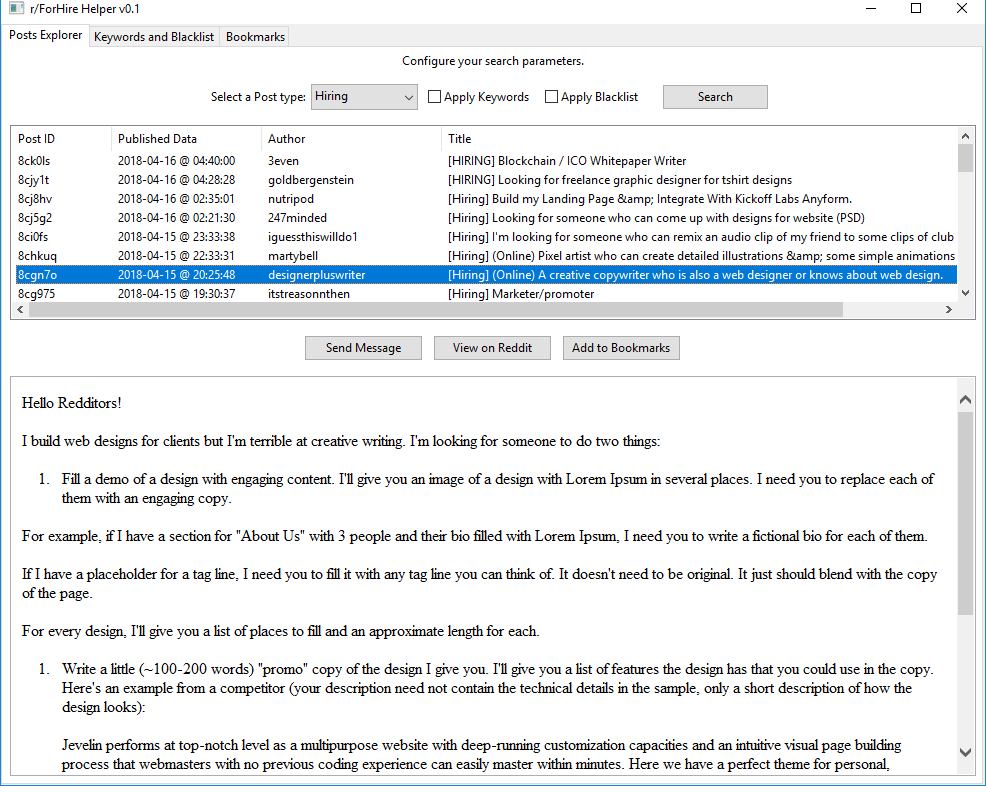
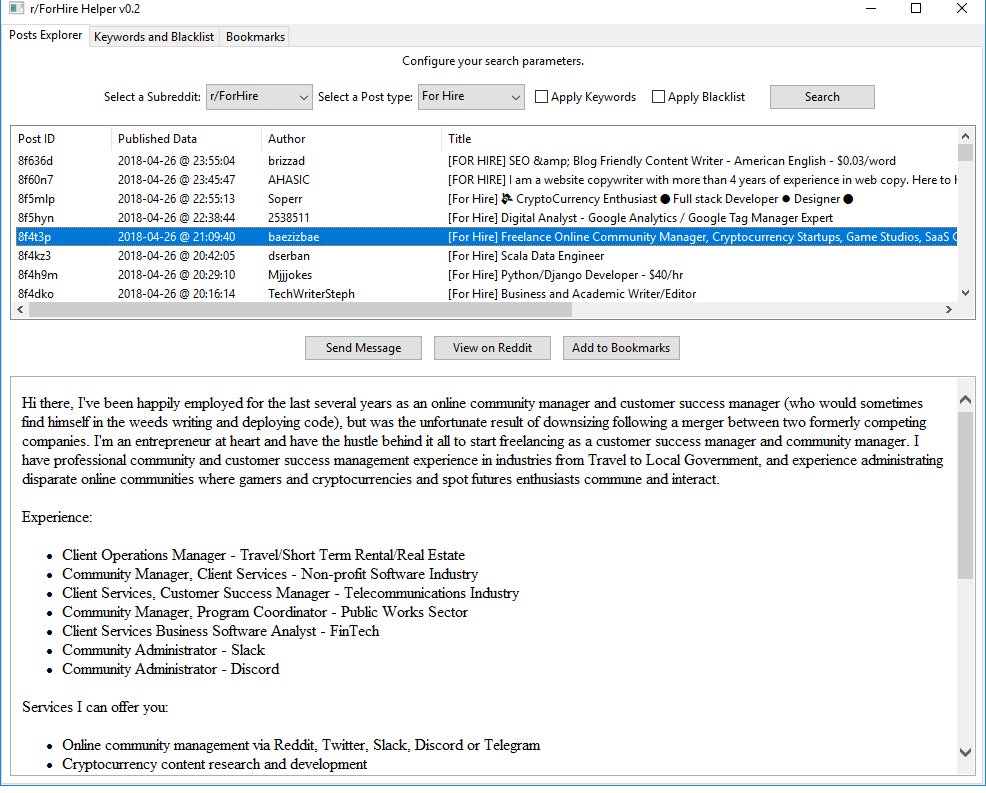
Bug fixes and more subreddits support.

diff --git a/forhire/views/tab1.py b/forhire/views/tab1.py
@@ -17,6 +17,7 @@ from wx.adv import NotificationMessage
 
 import main
 from libs import sql_helpers
+from libs.sibreddits import SUBREDDITS_LIST
 
 
 class Tab1(wx.Panel):
@@ -26,7 +27,7 @@ class Tab1(wx.Panel):
 
         self.selected_post = ""
         self.posts_list = list()
-        self.keywords = list()
+        self.m_keywords = list()
         self.blacklist = list()
 
         self.main_sizer = wx.BoxSizer(wx.VERTICAL)
@@ -44,17 +45,25 @@ class Tab1(wx.Panel):
         self.top_sizer_flags = wx.SizerFlags(
             1).Center().Expand().Border(wx.ALL, 5)
 
+        self.subreddit_label = wx.StaticText(self, label="Select a Subreddit:")
+        self.top_sizer.Add(self.subreddit_label, wx.SizerFlags().Centre())
+
+        self.subreddit_type = wx.ComboBox(
+            self, style=wx.CB_READONLY, choices=[item["name"] for item in SUBREDDITS_LIST])
+        self.Bind(wx.EVT_COMBOBOX, self.select_subreddit, self.subreddit_type)
+        self.top_sizer.Add(self.subreddit_type, self.top_sizer_flags)
+
         self.post_type_label = wx.StaticText(self, label="Select a Post type:")
         self.top_sizer.Add(self.post_type_label, wx.SizerFlags().Centre())
 
-        self.post_type = wx.ComboBox(
-            self, style=wx.CB_READONLY, value="Hiring", choices=["Hiring", "For Hire"])
+        self.post_type = wx.ComboBox(self, style=wx.CB_READONLY)
         self.Bind(wx.EVT_COMBOBOX, self.filter_results, self.post_type)
         self.top_sizer.Add(self.post_type, self.top_sizer_flags)
 
-        self.keywords_checkbox = wx.CheckBox(self, label="Apply Keywords")
-        self.Bind(wx.EVT_CHECKBOX, self.filter_results, self.keywords_checkbox)
-        self.top_sizer.Add(self.keywords_checkbox, self.top_sizer_flags)
+        self.m_keywords_checkbox = wx.CheckBox(self, label="Apply Keywords")
+        self.Bind(wx.EVT_CHECKBOX, self.filter_results,
+                  self.m_keywords_checkbox)
+        self.top_sizer.Add(self.m_keywords_checkbox, self.top_sizer_flags)
 
         self.blacklist_checkbox = wx.CheckBox(
             self, label="Apply Blacklist")
@@ -100,15 +109,31 @@ class Tab1(wx.Panel):
         self.SetSizer(self.main_sizer)
         self.Bind(wx.EVT_SHOW, self.show_handler)
 
+        # We initialize the tab with the first subreeddit.
+        self.subreddit_type.SetValue(SUBREDDITS_LIST[0]["name"])
+        self.select_subreddit(None)
+
     def show_handler(self, event):
         """Called when the Panel is being shown."""
 
         if event.IsShown():
-            self.keywords = [item[0].lower() for item in sql_helpers.load_words(
+            self.m_keywords = [item[0].lower() for item in sql_helpers.load_words(
                 main.sql_conn, "keywords")]
 
             self.blacklist = [item[0].lower() for item in sql_helpers.load_words(
                 main.sql_conn, "blacklist")]
+
+    def select_subreddit(self, event):
+        """Populates the post type ComboBox with the data from the selected subreddit."""
+
+        for subreddit in SUBREDDITS_LIST:
+            if subreddit["name"] == self.subreddit_type.Value:
+                rules = subreddit["rules"]
+                break
+
+        self.post_type.Clear()
+        self.post_type.AppendItems(rules)
+        self.post_type.SetValue(rules[0])
 
     def do_search(self, event):
         """Starts the search."""
@@ -140,19 +165,22 @@ class Tab1(wx.Panel):
                 if self.quick_filter(self.blacklist, item):
                     temp_posts.remove(item)
 
-        if self.keywords_checkbox.IsChecked():
+        if self.m_keywords_checkbox.IsChecked():
             for item in temp_posts:
-                if self.quick_filter(self.keywords, item):
+                if self.quick_filter(self.m_keywords, item):
                     filtered_posts.append(item)
 
-        if len(filtered_posts) == 0:
-            for item in temp_posts:
-                if self.post_type.GetValue().lower() in item["title"].lower():
+        if len(filtered_posts) == 0 and self.m_keywords_checkbox.IsChecked():
+            # No results, we do nothing.
+            pass
+        elif len(filtered_posts) >= 1:
+            for item in filtered_posts:
+                if self.post_type.GetValue().lower() in item["flair"].lower():
                     self.posts_table.Append(
                         [item["post_id"], item["pub_date"], item["author"], item["title"]])
         else:
-            for item in filtered_posts:
-                if self.post_type.GetValue().lower() in item["title"].lower():
+            for item in temp_posts:
+                if self.post_type.GetValue().lower() in item["flair"].lower():
                     self.posts_table.Append(
                         [item["post_id"], item["pub_date"], item["author"], item["title"]])
 
@@ -173,13 +201,19 @@ class Tab1(wx.Panel):
         this cnn be changed in the target default value, the max is 1000.
         """
 
-        headers = {"User-Agent": "r/ForHire Helper v0.1"}
+        for subreddit in SUBREDDITS_LIST:
+            if subreddit["name"] == self.subreddit_type.Value:
+                selected_subreddit = subreddit["id"]
+                break
+
+        headers = {"User-Agent": "r/ForHire Helper v0.2"}
 
         if after == "":
-            url = "https://www.reddit.com/r/forhire/new/.json?limit=100"
+            url = "https://www.reddit.com/r/{}/new/.json?limit=100".format(
+                selected_subreddit)
         else:
-            url = "https://www.reddit.com/r/forhire/new/.json?limit=100&after={}".format(
-                after)
+            url = "https://www.reddit.com/r/{}/new/.json?limit=100&after={}".format(
+                selected_subreddit, after)
 
         with requests.get(url, headers=headers) as response:
 
@@ -187,12 +221,29 @@ class Tab1(wx.Panel):
                 counter += 100
 
                 for submission in response.json()["data"]["children"]:
+
+                    # Very rarely a post has no text.
+                    # We set it to an empty string instead of a null value.
+                    if submission["data"]["selftext_html"] is None:
+                        submission_text = ""
+                    else:
+                        submission_text = submission["data"]["selftext_html"]
+
+                    # We detect if a post has not been flaired.
+                    # If not, we fallback to using its title.
+                    if submission["data"]["link_flair_text"] is None:
+                        flair = submission["data"]["title"]
+                    else:
+                        flair = submission["data"]["link_flair_text"]
+
                     post_dict = {
                         "post_id": submission["data"]["id"],
+                        "flair": flair,
+                        "subreddit": submission["data"]["subreddit"].lower(),
                         "author": submission["data"]["author"],
                         "title": submission["data"]["title"],
                         "link": submission["data"]["url"],
-                        "text": submission["data"]["selftext_html"],
+                        "text": submission_text,
 
                         "pub_date": datetime.fromtimestamp(
                             submission["data"]["created"]).strftime("%Y-%m-%d @ %H:%M:%S")}

diff --git a/forhire/views/tab3.py b/forhire/views/tab3.py
@@ -16,6 +16,7 @@ from wx.adv import NotificationMessage
 
 import main
 from libs import sql_helpers
+from libs.sibreddits import SUBREDDITS_LIST
 
 
 class Tab3(wx.Panel):
@@ -43,11 +44,18 @@ class Tab3(wx.Panel):
         self.top_sizer_flags = wx.SizerFlags(
             1).Center().Expand().Border(wx.ALL, 5)
 
+        self.subreddit_label = wx.StaticText(self, label="Select a Subreddit:")
+        self.top_sizer.Add(self.subreddit_label, wx.SizerFlags().Centre())
+
+        self.subreddit_type = wx.ComboBox(
+            self, style=wx.CB_READONLY, choices=[item["name"] for item in SUBREDDITS_LIST])
+        self.Bind(wx.EVT_COMBOBOX, self.select_subreddit, self.subreddit_type)
+        self.top_sizer.Add(self.subreddit_type, self.top_sizer_flags)
+
         self.post_type_label = wx.StaticText(self, label="Select a Post type:")
         self.top_sizer.Add(self.post_type_label, wx.SizerFlags().Centre())
 
-        self.post_type = wx.ComboBox(
-            self, style=wx.CB_READONLY, value="Hiring", choices=["Hiring", "For Hire"])
+        self.post_type = wx.ComboBox(self, style=wx.CB_READONLY)
         self.Bind(wx.EVT_COMBOBOX, self.filter_results, self.post_type)
         self.top_sizer.Add(self.post_type, self.top_sizer_flags)
 
@@ -95,6 +103,10 @@ class Tab3(wx.Panel):
         self.SetSizer(self.main_sizer)
         self.Bind(wx.EVT_SHOW, self.show_handler)
 
+        # We initialize the tab with the first subreeddit.
+        self.subreddit_type.SetValue(SUBREDDITS_LIST[0]["name"])
+        self.select_subreddit(None)
+
     def show_handler(self, event):
         """Called when the Panel is being shown."""
 
@@ -106,6 +118,19 @@ class Tab3(wx.Panel):
                 main.sql_conn, "blacklist")]
 
             self.load_posts()
+
+    def select_subreddit(self, event):
+        """Populates the post type ComboBox with the data from the selected subreddit."""
+
+        for subreddit in SUBREDDITS_LIST:
+            if subreddit["name"] == self.subreddit_type.Value:
+                rules = subreddit["rules"]
+                break
+
+        self.post_type.Clear()
+        self.post_type.AppendItems(rules)
+        self.post_type.SetValue(rules[0])
+        self.load_posts()
 
     def filter_results(self, event):
         """
@@ -135,14 +160,17 @@ class Tab3(wx.Panel):
                 if self.quick_filter(self.keywords, item):
                     filtered_posts.append(item)
 
-        if len(filtered_posts) == 0:
-            for item in temp_posts:
-                if self.post_type.GetValue().lower() in item["title"].lower():
+        if len(filtered_posts) == 0 and self.keywords_checkbox.IsChecked():
+            # No results, we do nothing.
+            pass
+        elif len(filtered_posts) >= 1:
+            for item in filtered_posts:
+                if self.post_type.GetValue().lower() in item["flair"].lower():
                     self.posts_table.Append(
                         [item["post_id"], item["pub_date"], item["author"], item["title"]])
         else:
-            for item in filtered_posts:
-                if self.post_type.GetValue().lower() in item["title"].lower():
+            for item in temp_posts:
+                if self.post_type.GetValue().lower() in item["flair"].lower():
                     self.posts_table.Append(
                         [item["post_id"], item["pub_date"], item["author"], item["title"]])
 
@@ -159,12 +187,17 @@ class Tab3(wx.Panel):
     def load_posts(self):
         """Loads posts from the posts table."""
 
+        for subreddit in SUBREDDITS_LIST:
+            if subreddit["name"] == self.subreddit_type.Value:
+                selected_subreddit = subreddit["id"]
+                break
+
         self.posts_list = list()
 
-        for item in sql_helpers.load_posts(main.sql_conn):
+        for item in sql_helpers.load_posts(main.sql_conn, selected_subreddit):
             self.posts_list.append(
-                {"post_id": item[0], "author": item[1], "title": item[2],
-                 "link": item[3], "text": item[4], "pub_date": item[5]})
+                {"post_id": item[0], "subreddit": item[1], "flair": item[2], "author": item[3], "title": item[4],
+                 "link": item[5], "text": item[6], "pub_date": item[7]})
 
         self.filter_results(None)
 

diff --git a/forhire/libs/sql_helpers.py b/forhire/libs/sql_helpers.py
@@ -17,8 +17,8 @@ def create_tables(cursor):
 
     keywords_query = """CREATE TABLE IF NOT EXISTS keywords (word TEXT UNIQUE)"""
     blacklist_query = """CREATE TABLE IF NOT EXISTS blacklist (word TEXT UNIQUE)"""
-    posts_query = """CREATE TABLE IF NOT EXISTS posts (post_id TEXT UNIQUE,
-        author TEXT, title TEXT, link TEXT, selftext TEXT, pub_date TEXT) """
+    posts_query = """CREATE TABLE IF NOT EXISTS posts (post_id TEXT UNIQUE, subreddit TEXT,
+    flair TEXT, author TEXT, title TEXT, link TEXT, selftext TEXT, pub_date TEXT) """
 
     cursor.execute(keywords_query)
     cursor.execute(blacklist_query)
@@ -53,9 +53,10 @@ def insert_post_to_table(conn, data_dict):
     """Inserts a post to the posts table."""
 
     with conn:
-        query = "INSERT INTO posts VALUES (?, ?, ?, ?, ?, ?)"
-        conn.execute(query, (data_dict["post_id"], data_dict["author"], data_dict["title"],
-                             data_dict["link"], data_dict["text"], data_dict["pub_date"]))
+        query = "INSERT INTO posts VALUES (?, ?, ?, ?, ?, ?, ?, ?)"
+        conn.execute(query, (data_dict["post_id"], data_dict["subreddit"], data_dict["flair"],
+                             data_dict["author"], data_dict["title"], data_dict["link"],
+                             data_dict["text"], data_dict["pub_date"]))
 
 
 def delete_post_from_table(conn, value):
@@ -66,9 +67,9 @@ def delete_post_from_table(conn, value):
         conn.execute(query, (value,))
 
 
-def load_posts(conn):
+def load_posts(conn, value):
     """Returns all the posts from the posts table."""
 
     with conn:
-        query = "SELECT * FROM posts"
+        query = "SELECT * FROM posts WHERE subreddit='{}'".format(value)
         return conn.execute(query)

diff --git a/forhire/libs/sibreddits.py b/forhire/libs/sibreddits.py
@@ -1,0 +1,12 @@
+"""
+This list contains the subreddits used in this program.
+The rules key is used to filter the posts between those who seek jobs and those who offer them.
+"""
+
+SUBREDDITS_LIST = [
+    {"id": "forhire", "name": "r/ForHire", "rules": ["For Hire", "Hiring"]},
+    {"id": "designjobs", "name": "r/DesignJobs", "rules": ["For Hire", "Hiring"]},
+    {"id": "hireawriter", "name": "r/HireaWriter", "rules": ["Hire Me", "Hiring"]},
+    {"id": "jobbit", "name": "r/jobbit", "rules": ["For Hire", "Hiring"]},
+    {"id": "slavelabour", "name": "r/SlaveLabour", "rules": ["Task", "Offer"]}
+]

diff --git a/forhire/main.py b/forhire/main.py
@@ -11,7 +11,7 @@ class Root(wx.Frame):
     def __init__(self, parent):
 
         wx.Frame.__init__(
-            self, parent, title="r/ForHire Helper v0.1", size=(1000, 800))
+            self, parent, title="r/ForHire Helper v0.2", size=(1000, 800))
 
         self.notebook = wx.Notebook(self)
 

diff --git a/forhire/views/tab2.py b/forhire/views/tab2.py
@@ -1,7 +1,7 @@
 """
 In this tab you can manage your keywords and blacklist items.
 
-The code in this tab is highly resusable since both keywords and blacklists are
+The code in this tab is highly reusable since both keywords and blacklists are
 based on the same principle.
 """
 

diff --git a/README.md b/README.md
@@ -1,10 +1,11 @@
 # r/ForHire Helper
 
-r/ForHire Helper is a free and opensource Python desktop application that helps freelancers and employers find the best candidates faster and easier.
+r/ForHire Helper is a free and open source Python desktop application that helps freelancers and employers find the best candidates faster and easier.
 
-This application uses the following APis and libraries:
 
-* wxPython 4 for the GUI framework.
+It uses the following libraries and technologies:
+
+* wxPython 4 for the GUI framework and to preview Reddit posts.
 * Requests to communicate with the Reddit JSON API.
 * SQLite to manage keywords, blacklists and bookmarks.
 
@@ -30,7 +31,7 @@ Note: macOS and Linux users must use `python3` instead of `python`.
 
 After running those commands a new window will appear with 3 tabs.
 
-The first tab contains a button that will connect to the Reddit API and will download the latest posts from [r/ForHire](https://www.reddit.com/r/forhire).
+The first tab contains a button that will connect to the Reddit API and will download the latest posts from the selected Subreddit, the default one is [r/ForHire](https://www.reddit.com/r/forhire).
 
 Those posts will be filtered between `Hiring` and `For Hire`. You can apply your custom keywords and blacklists by checking their respective boxes.
 
@@ -46,4 +47,4 @@ In the third tab you will be presented with all the posts you have bookmarked fr
 
 For your convenience a Windows 64-bit executable is available, you can download it directly from GitHub.
 
-[![Download](https://i.imgur.com/QEtsNHg.png)](https://github.com/PhantomInsights/forhirehelper/releases/download/v0.1/forhire.exe)
+[![Download](https://i.imgur.com/QEtsNHg.png)](https://github.com/PhantomInsights/forhirehelper/releases/download/v0.2/forhire.exe)
